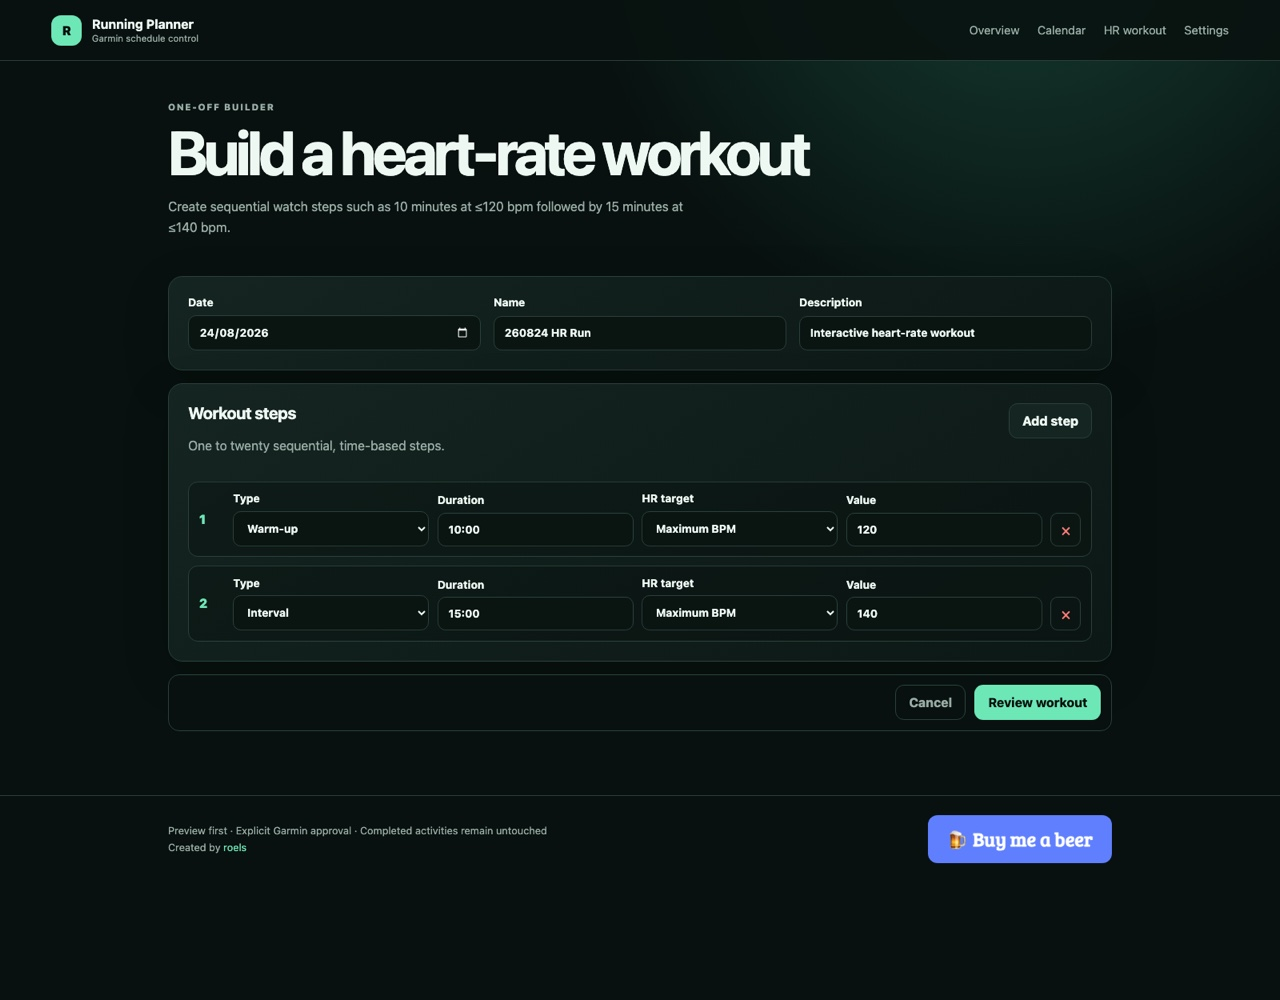
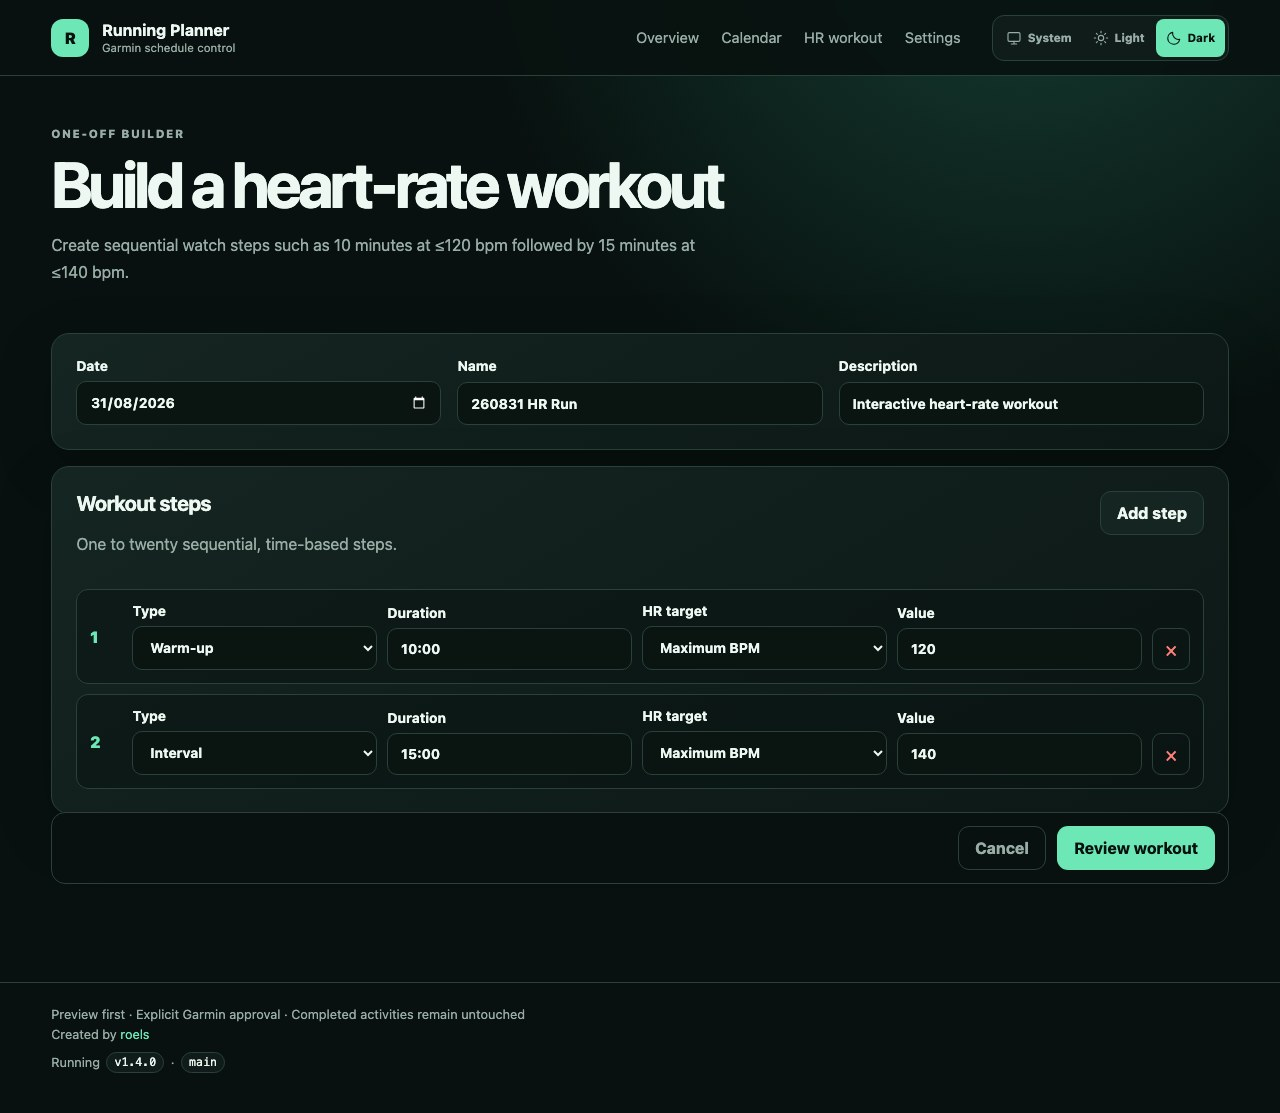
Refresh README screenshots for light and dark themes

diff --git a/README.md b/README.md
@@ -37,14 +37,17 @@ calendar when you apply the plan. The dates and sessions shown are examples, not
 ### Planner web interface
 
 The web-interface examples below use a fully synthetic runner profile; they contain no real Garmin credentials or
-activity data. The calendar deliberately includes completed, missed, current-day, and future workouts so every visual
-state is represented.
+activity data. The calendar deliberately includes completed runs with execution scores and actual distances, a missed
+run, today's next workout, and future workouts. The top-right appearance control follows the system by default and also
+offers persistent Light and Dark overrides.
 
-![Web dashboard showing the active running goal, heart-rate guidance, training-block progress, and next workout](docs/images/web-dashboard.jpg)
+![Light-mode web dashboard showing the appearance selector, active running goal, heart-rate guidance, block progress, next workout, and planner actions](docs/images/web-dashboard.jpg)
 
-| Status-aware training calendar | Heart-rate workout builder |
+| Light calendar | Dark calendar |
 | --- | --- |
-| ![Training calendar showing completed runs with execution scores, missed runs, today's next workout, and future scheduled runs](docs/images/web-calendar.jpg) | ![Heart-rate workout builder with sequential time and maximum-BPM steps](docs/images/web-heart-rate-workout.jpg) |
+| ![Light-mode training calendar showing completed runs with execution scores and actual distances, a missed run, today's next workout, and future scheduled runs](docs/images/web-calendar.jpg) | ![Dark-mode training calendar showing completed runs with execution scores and actual distances, a missed run, today's next workout, and future scheduled runs](docs/images/web-calendar-dark.jpg) |
+
+![Dark-mode heart-rate workout builder with sequential time and maximum-BPM steps](docs/images/web-heart-rate-workout.jpg)
 
 ## Features
 
@@ -65,7 +68,7 @@ state is represented.
 - Local decoding of FIT files with Garmin's official FIT SDK.
 - An interactive, goal-driven planner: no YAML editing is required for normal use.
 - A dashboard with the active goal, completed/missed/remaining days, and the next workout.
-- A date-aware calendar that subdues finished dates, identifies missed runs, highlights today's workout, and keeps the next actionable run obvious.
+- A date-aware calendar that subdues finished dates, identifies missed runs, shows actual completed distances, highlights today's workout, and keeps the next actionable run obvious.
 - Garmin workout execution scores for completed planned runs, fetched once from original FIT data when necessary and cached locally.
 - Supervised mid-block adaptation that replaces only future workouts after explicit approval.
 - Garmin-side overlap detection with explicit consent to retire pre-existing schedules and obsolete templates.
@@ -73,6 +76,7 @@ state is represented.
 - Interactive heart-rate caps, custom ranges, and Garmin zones by workout phase.
 - A one-off HR workout builder for arbitrary sequential steps without YAML.
 - A responsive, preview-first web dashboard backed by the same planner, state, Garmin client, and FIT evidence.
+- System-aware light and dark web themes with a persistent top-right appearance override.
 - A deterministic planning engine that works without an LLM, plus optional provider-neutral LLM explanations.
 - Portable SQLite state and file-based session tokens; no macOS Keychain dependency.
 - Versioned YAML/JSON artifacts suitable for future desktop and mobile clients.

diff --git a/CHANGELOG.md b/CHANGELOG.md
@@ -10,6 +10,11 @@ All notable changes to Garmin Running Workouts Import are documented here. The p
 - Completed runs in the web calendar and proposal history show the actual recorded distance in kilometres beside
   Garmin's execution score. Existing databases migrate automatically and populate prior distances on the next refresh.
 
+### Changed
+
+- Refreshed the anonymized README gallery to show the current dashboard, completed-distance pills, and both light and
+  dark calendar themes; the HR workout-builder example now demonstrates dark mode.
+
 ## [1.4.0] - 2026-08-27
 
 The web interface now follows your system appearance, with an optional light or dark override on every page.
